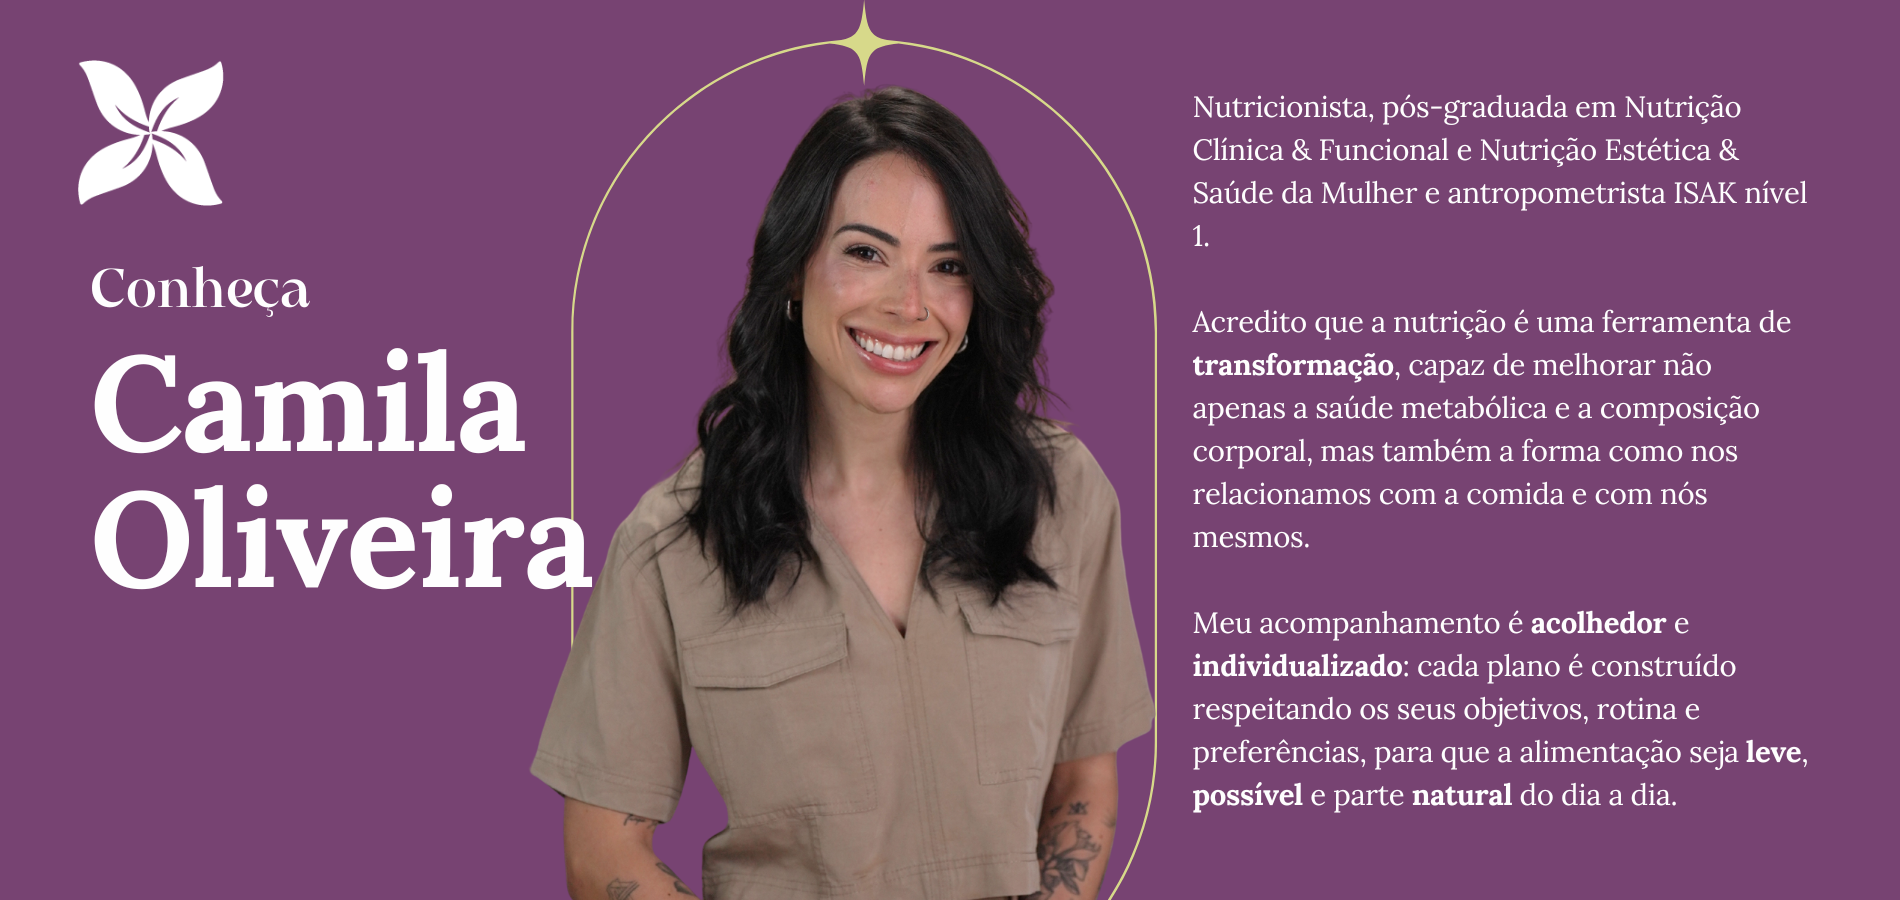
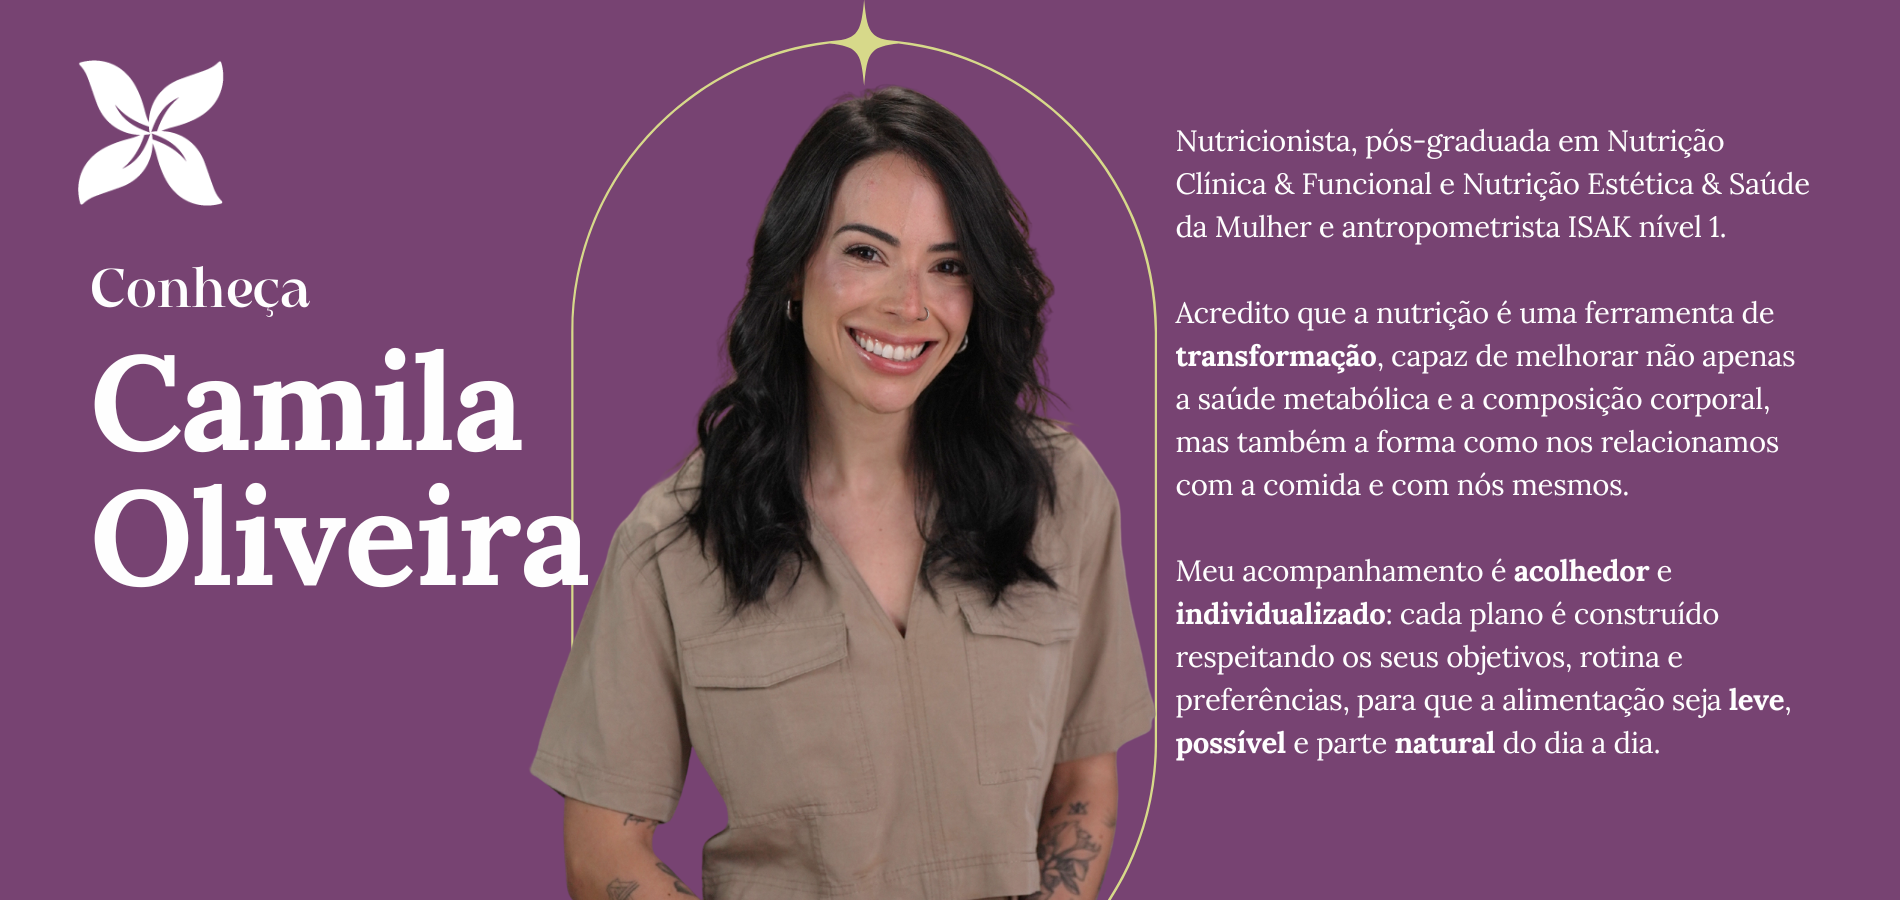
update

diff --git a/public/mediaDesktop.css b/public/mediaDesktop.css
@@ -910,7 +910,7 @@ button[type="submit"]:hover {
 /* Estilos da seção principal */
 .chamada-para-acao {
     height: 100vh;
-    width: 100vw;
+    width: 99vw;
   background-color: #755580;
   color: #fff;
   display: flex;
@@ -937,7 +937,7 @@ button[type="submit"]:hover {
 
 /* Estilos do título principal */
 .chamada-para-acao__titulo {
-  font-size: 36px;
+  font-size: 50px;
   font-weight: 700;
   line-height: 1.2;
   margin-bottom: 50px;
